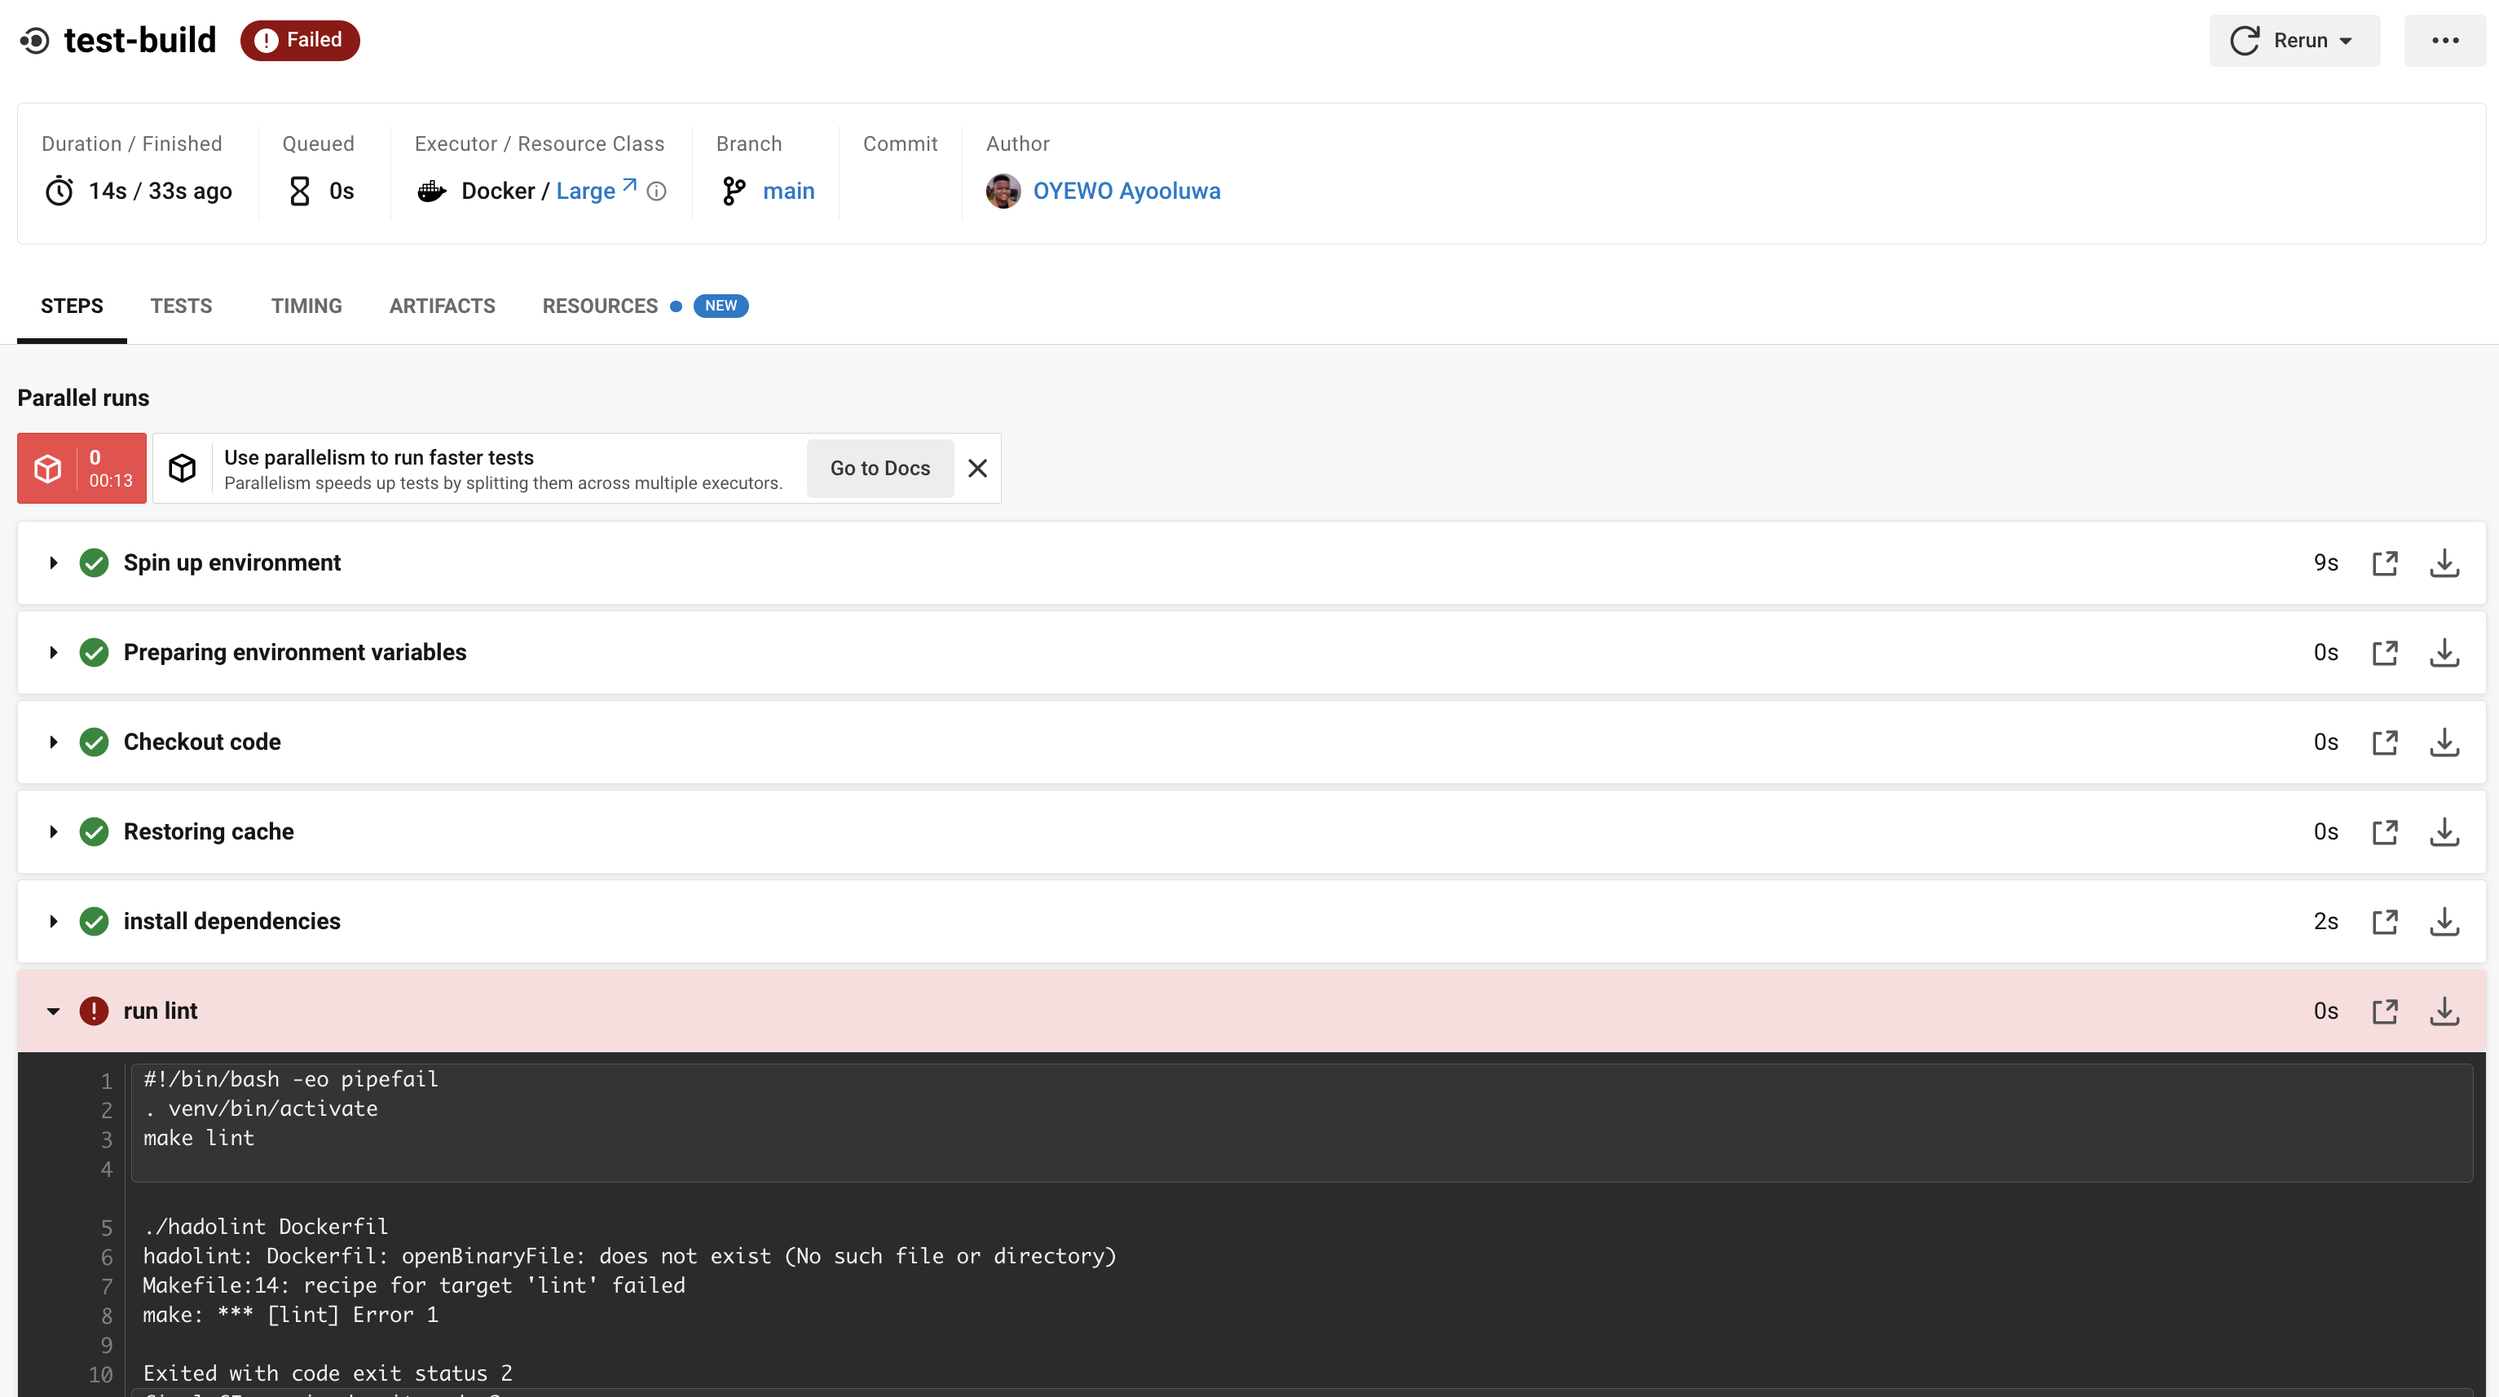
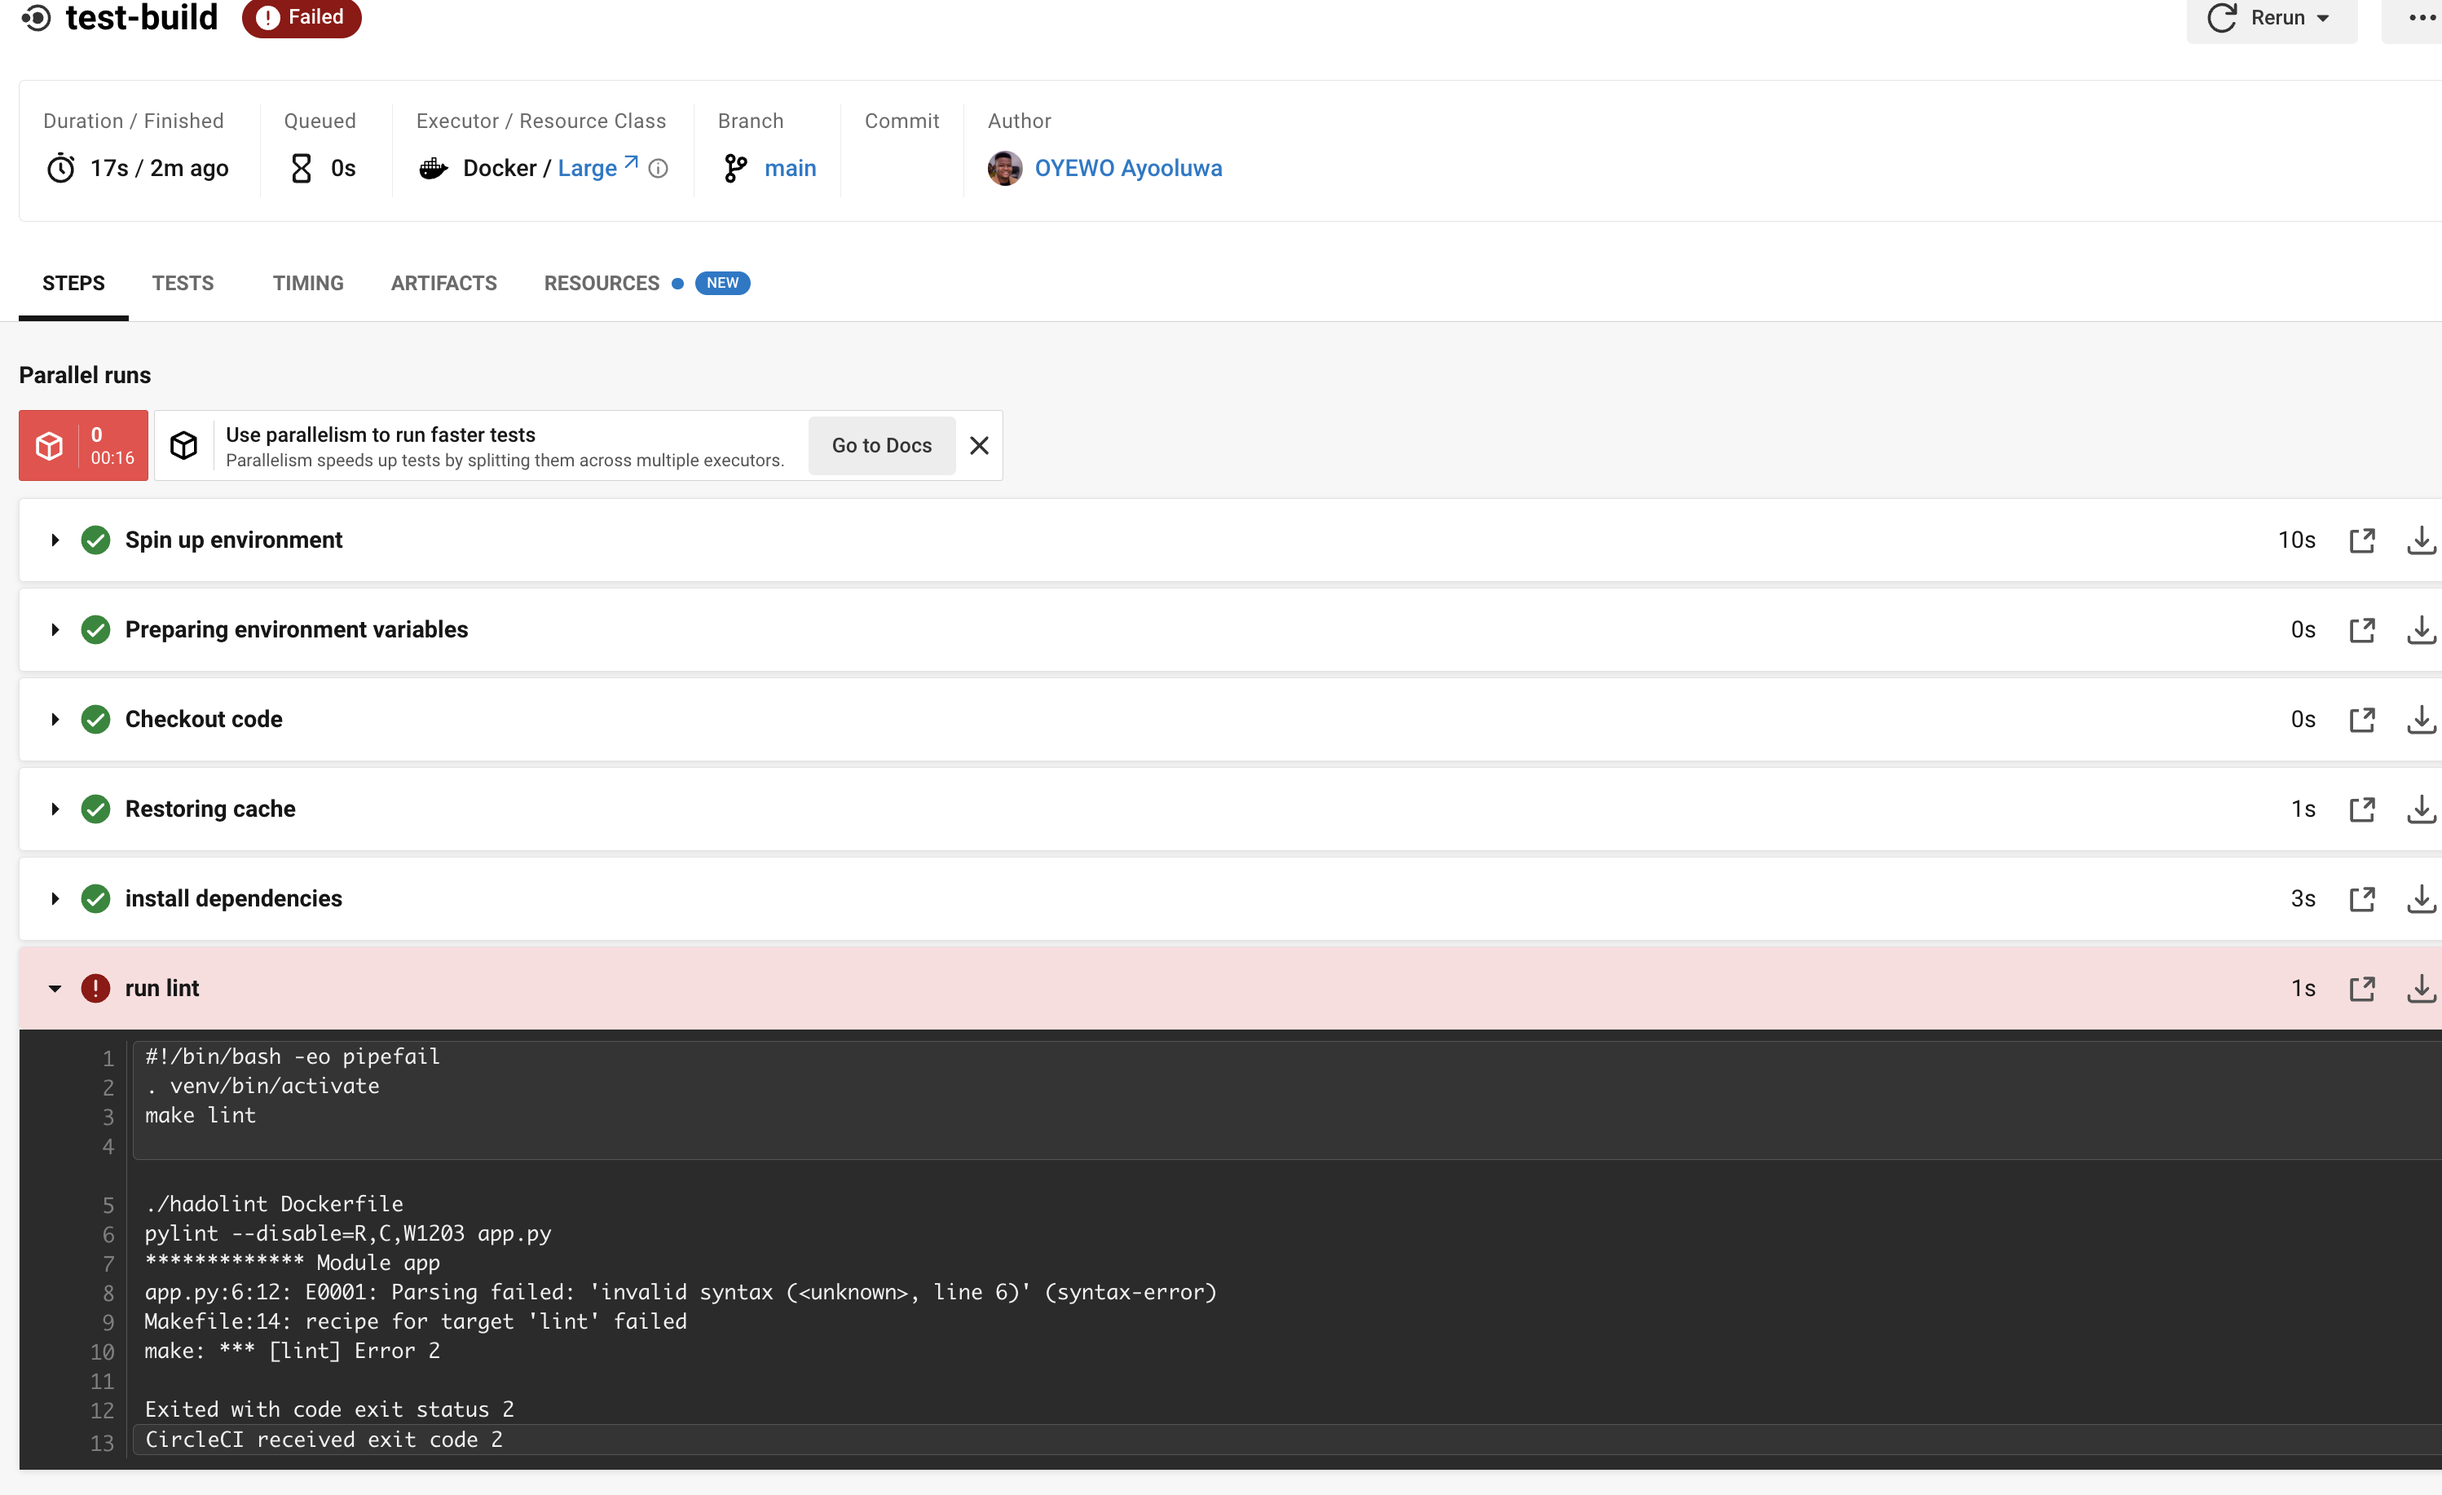
updated lint fail screenshot

diff --git a/app.py b/app.py
@@ -3,7 +3,7 @@ app = Flask(__name__)
 
 @app.route('/')
 def home():
-    return <h1 style='text-align: center;'>Hello World, This is Ayooluwa Oyewo Cloud DevOps Engineer Capstone Project!</h1>
+    return "<h1 style='text-align: center;'>Hello World, This is Ayooluwa Oyewo Cloud DevOps Engineer Capstone Project!</h1>"
 
 if __name__ == '__main__':
     app.run(host='0.0.0.0', port=80, debug=True) # specify port=80
